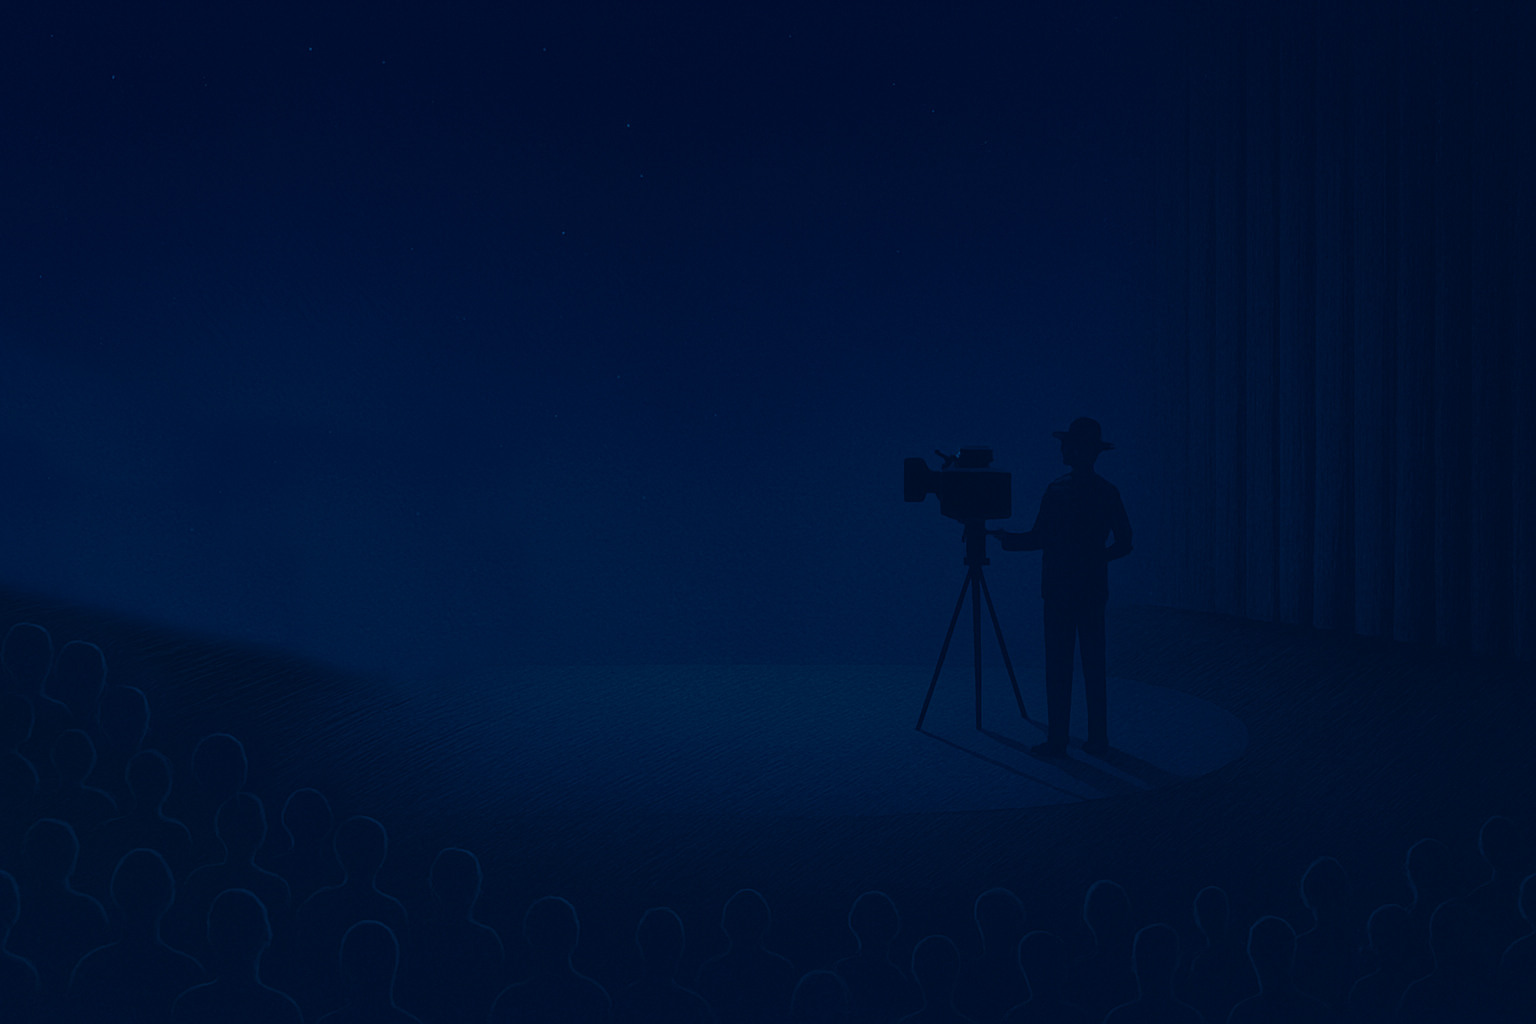
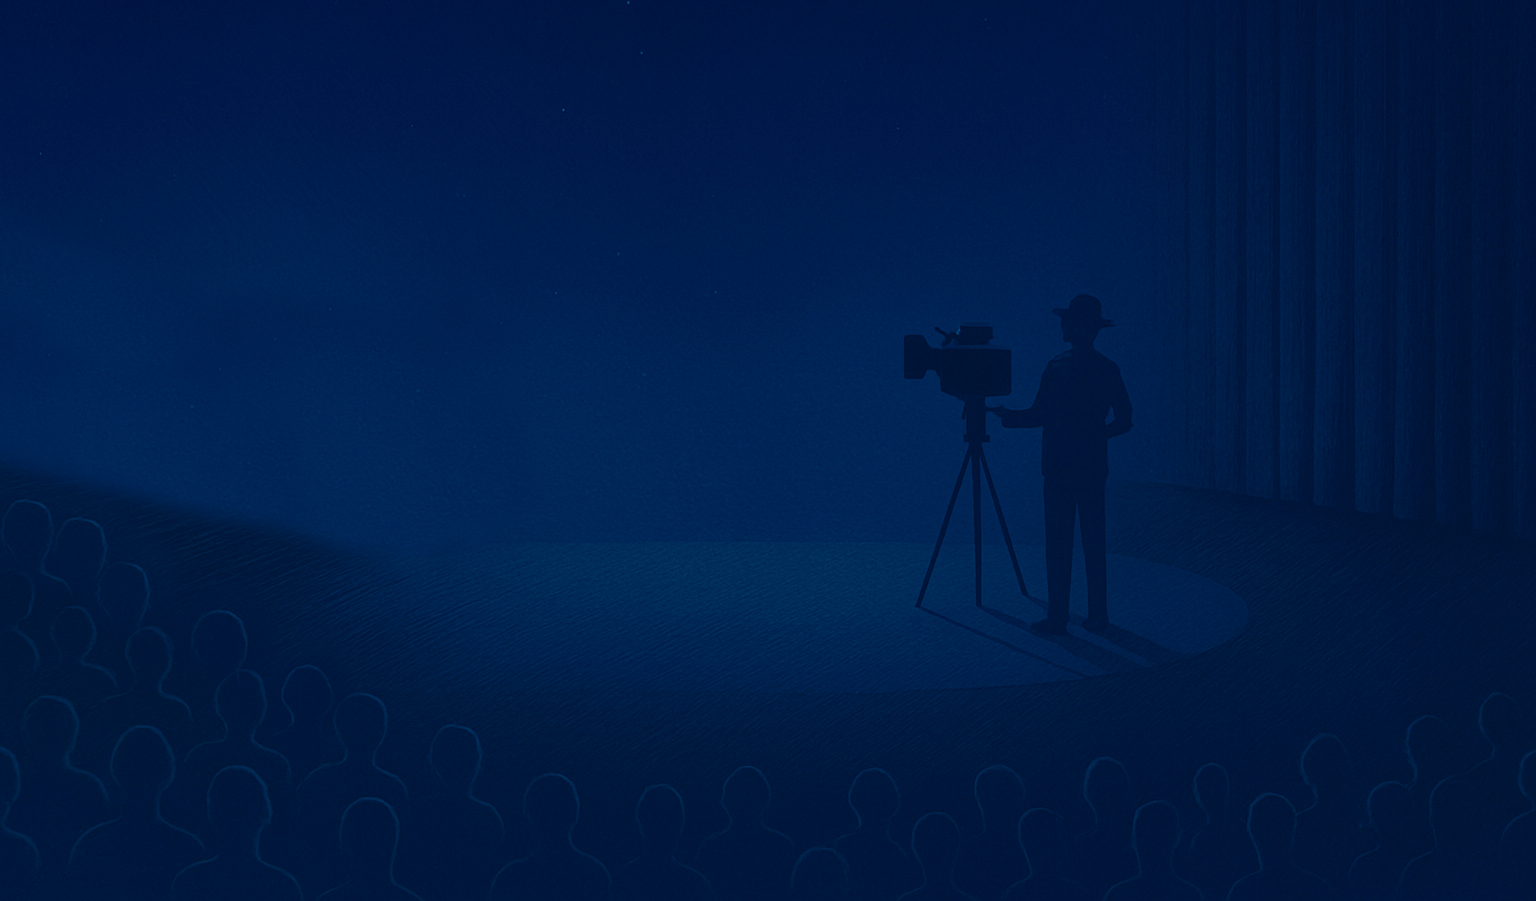
spotlight + animated hero

diff --git a/Landing/src/index.css b/Landing/src/index.css
@@ -2,8 +2,8 @@
 @import "tailwindcss"; 
 
 :root {
-  --bg: #031231;
-  --text: #e7e7e7;
+  --bg: #e7e7e7;
+  --text: #2C459C;
   --muted: #F0706C;
   --cta:  #f58985;
   --cta-hover: #eb8e8a;
@@ -49,7 +49,7 @@ nav {
 }
 
 nav a {
-  font-size: 0.7rem;
+  font-size: 0.8rem;
   color: var(--text);
   transition: color 200ms ease;
   font-weight: 500;
@@ -83,18 +83,19 @@ nav a:hover {
 .hero-section {
   position: relative;
   width: 100%;
-  height: 100vh;
+  height: 120vh;
   overflow: hidden;
 }
 
 .hero-bg {
-  position: relative;
-  inset: -7px;
+  position: abdsolute;
+  inset:0 px;
   width: 100%;
   height: 100%;
   object-fit: cover;
   z-index: 0;
   opacity: 100; /* tweak if you want stronger/dimmer background */
+  
 }
 
 .hero::after {
@@ -126,17 +127,17 @@ nav a:hover {
 }
 
 
-.spotlight::before {
+.spotlight-stage {
   content:"";
   position:absolute;
   inset:0;
   /* use variables for gradient center */
-  background: radial-gradient(30vw 20vh at var(--spot-x, 70%) var(--spot-y, 78%),
+  background: radial-gradient(30vw 20vh at var(--spot-x, 70%) var(--spot-y, 70%),
     rgba(255,240,200,0.6) 0%,
     rgba(255,200,160,0.3) 5%,
     transparent 65%);
   mix-blend-mode: screen;
-  filter: blur(20px) contrast(.08) saturate(0.9);
+  filter: blur(16px) contrast(0.8) saturate(1.5);
 }
 
 .spotlight::after {
@@ -144,16 +145,16 @@ nav a:hover {
   position:absolute;
   width:1200px;   /* give it a box */
   height:900px;
-  left:-20%;
+  left:-25%;
   top:20%;
   background: radial-gradient(160vw 90vh at 20% 8%,
-    rgba(255,240,200,0.6) 0%,
-    rgba(255,200,160,0.3) 25%,
+    rgba(255,240,200,0.6) 10%,
+    rgba(255,200,160,0.3) 30%,
     transparent 50%);
   mix-blend-mode: screen;
   transform: rotate(28deg); /* rotate only this pseudo-element */
   transform-origin: 50% 50%; /* pivot around its gradient center */
-  filter: blur(20px) contrast(.8) saturate(1.05);
+  filter: blur(20px) contrast(0.8) saturate(1.9);
   transition: filter .18s ease;
 
 }
@@ -176,6 +177,17 @@ nav a:hover {
   color: white;
   text-align: left;
   z-index: 2; /* ensures it’s above the spotlight */
+}
+
+.hero-blob {
+  position: absolute;
+  bottom: 0;
+  left: 0;
+  width: 100%;
+  height: 140px; /* or more if needed */
+  z-index: 0;
+  pointer-events: none;
+  opacity: 90;
 }
 
 

diff --git a/Landing/src/sections/Hero.jsx b/Landing/src/sections/Hero.jsx
@@ -3,18 +3,16 @@ import gsap from 'gsap';
 
 const Hero = () => {
 
-// const spotlight = document.querySelector(".spotlight");
-// window.addEventListener("mousemove", e => {
-//   const xPercent = 70 + (e.clientX / window.innerWidth ) * 20; 
-//   const yPercent = 78 + (e.clientY / window.innerHeight ) * 16;
 
-//   gsap.to(spotlight, {
-//     "--spot-x": `${xPercent}%`,
-//     "--spot-y": `${yPercent}%`,
-//     duration: 0.6,
-//     ease: "power2.out"
-//   });
-// });
+window.addEventListener("load", () => {
+  gsap.fromTo(".spotlight",
+    { "--spot-w": "0vw", "--spot-h": "0vh" }, // start tiny
+    { "--spot-w": "40vw", "--spot-h": "18vh", // final beam size
+      duration: 2.5,
+      ease: "power3.out"
+    }
+  );
+});
 
 const hero = document.querySelector(".hero");
 
@@ -24,7 +22,7 @@ window.addEventListener("mousemove", e => {
 
   hero.style.setProperty("--cursor-x", `${x}%`);
   hero.style.setProperty("--cursor-y", `${y}%`);
-  duration: 0.7;
+  duration: 0.6;
 
 });
 
@@ -32,10 +30,25 @@ window.addEventListener("mousemove", e => {
 
   return (
     <div className="hero-section">
+      
       <img src="/background.jpg" alt="hero background" className="hero-bg" />
       <div className="spotlight" id="spotlight" />
+     
       <div class="vignette"></div>
 
+       {/* Animated SVG blob background */}
+      <svg className="hero-blob" viewBox="0 0 800 600" preserveAspectRatio="none">
+        <path fill="#ffffffff" d="M0,0 C200,100 600,100 800,0 L800,600 L0,600 Z">
+     <animate attributeName="d" dur="4s" repeatCount="indefinite"
+  values="
+    M0,0 C300,200 500,0 800,0 L800,600 L0,600 Z;
+    M0,0 C250,300 550,-50 800,0 L800,600 L0,600 Z;
+    M0,0 C300,200 500,0 800,0 L800,600 L0,600 Z
+  " />
+        </path>
+      </svg>
+   
+  
 
       {/* text overlay inside the hero */}
       <div className="hero-inner container">

diff --git a/Landing/src/components/Navbar.jsx b/Landing/src/components/Navbar.jsx
@@ -4,7 +4,7 @@ const Navbar = () =>  {
   return (
     <div className="container" >
         <header>
-            <img src="/whiteLogo.png" alt="Gaffer Logo" className="w-30" />
+            <img src="/blueLogo.png" alt="Gaffer Logo" className="w-15" />
 
           <nav className="flex gap-6 justify-center text-sm font-semibold " role="menubar" aria-label="Primary">
             <a href="#home">Home</a>
